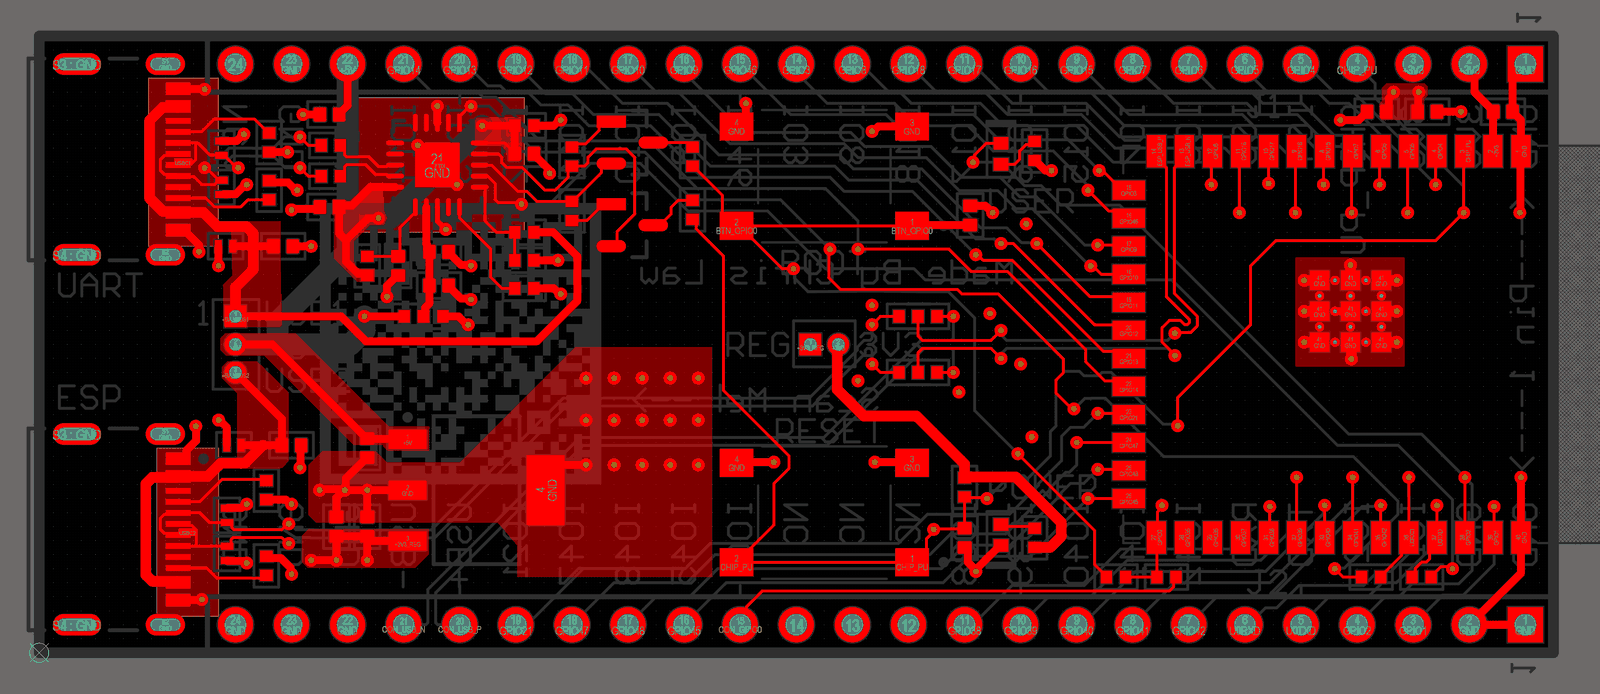
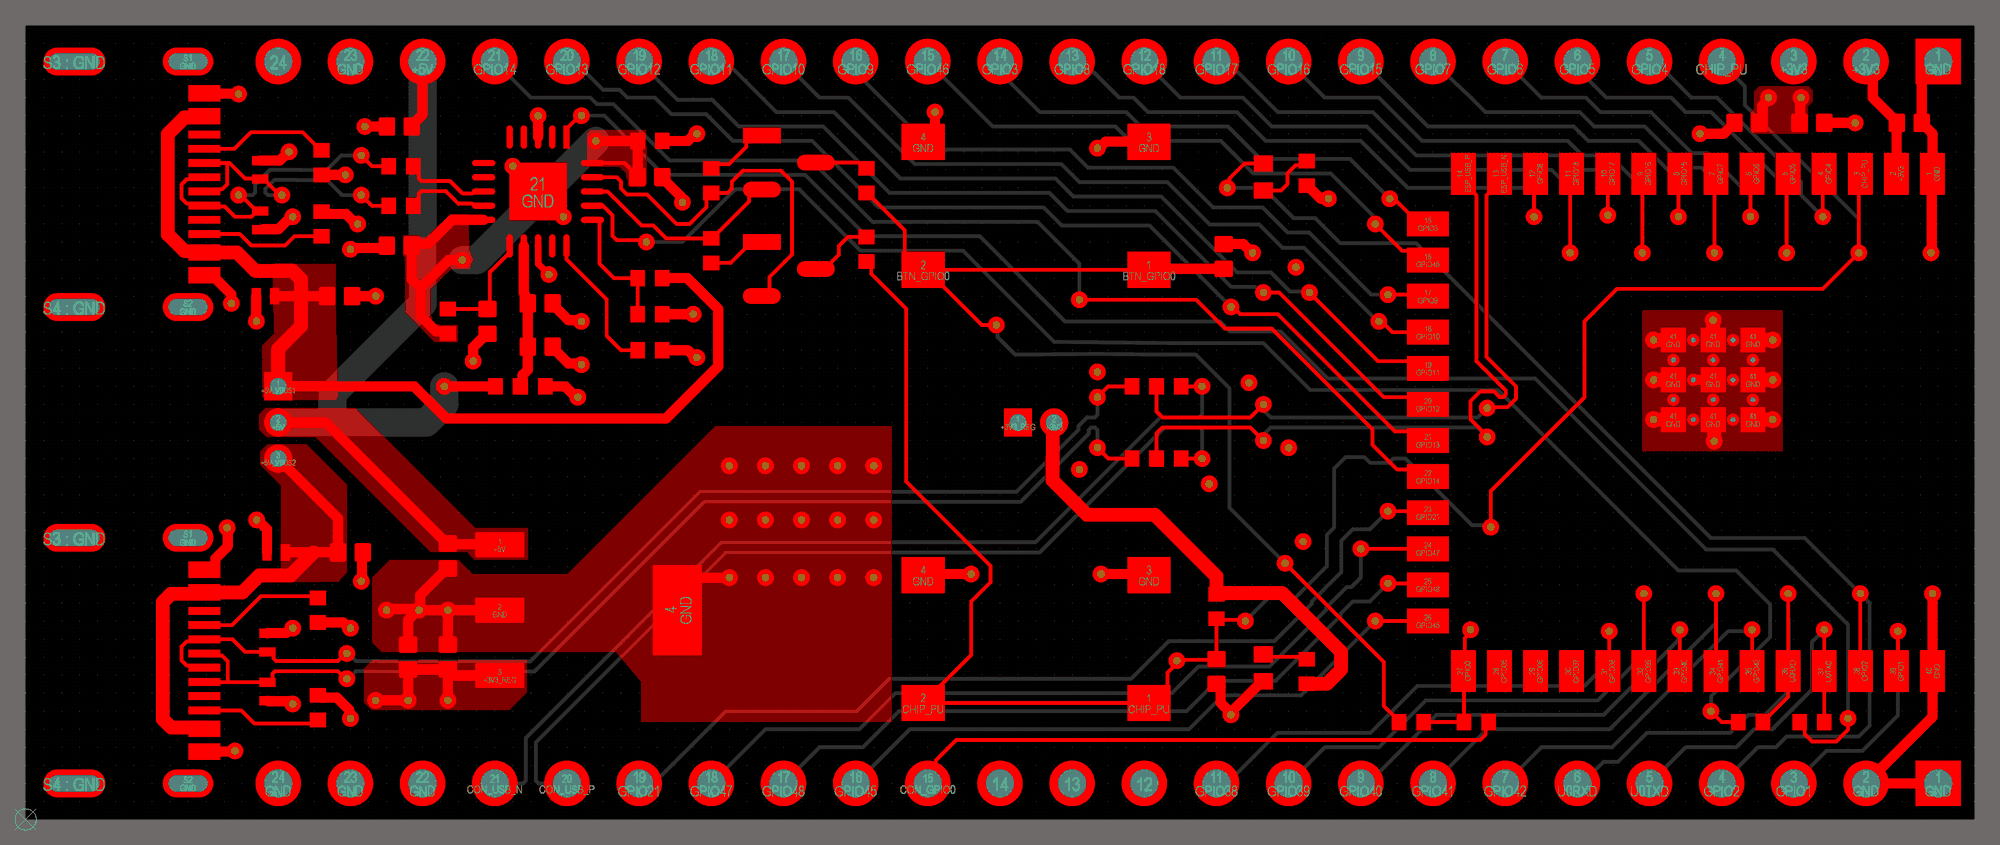
website update

diff --git a/app.js b/app.js
@@ -1,6 +1,6 @@
 const site = {
     statement: 'I\'m Chris, a computer engineering student at Waterloo. I enjoy working on both software and hardware.',
-    standfirst: 'Computer engineering at the University of Waterloo. The first revision of a custom ESP32-S3 board is built and powering up.',
+    standfirst: 'Computer engineering at the University of Waterloo. The first revision of a custom ESP32-S3 board is built and running over native USB.',
 
     projects: [
         {
@@ -8,13 +8,14 @@ const site = {
             fact: '4-layer PCB, Altium',
             note: 'A custom four-layer board taken from schematic to manufactured PCB.',
             deck: 'A custom ESP32-S3 development board designed from scratch in Altium Designer and taken through fabrication and assembly at JLCPCB.',
-            /* photo-top.jpg is the Top 3D render's frame extended to 2.25:1,
-               with the photographed PCB warped onto the render's PCB
-               rectangle. The folder's image box is 2.06-2.24:1, so both are
-               width-limited there and the board lands on the same pixels in
-               either tab. photo-bottom.jpg sits on the mirror image of that
-               rectangle, so Photo -> Underside reads as turning the board
-               over. The photo tabs share a tint sampled from the wood. */
+            /* board-top.jpg shares photo-top.jpg's 1800x800 frame, placed by
+               matching the render's pads and silkscreen to the photo's (median
+               error under a pixel), so the board lands on the same pixels in
+               either tab at any frame size. photo-bottom.jpg sits on the mirror
+               image of that rectangle, so Photo -> Underside reads as turning
+               the board over. The two copper layers share a frame too, so
+               their through-hole pads coincide. The photo tabs share a tint
+               sampled from the wood. */
             images: [
                 {
                     src: 'images/esp32/photo-top.jpg',
@@ -50,22 +51,21 @@ const site = {
                     src: 'images/esp32/layout-bottom.png',
                     label: 'Bottom Layer',
                     tint: '#315CA8',
-                    caption: 'Bottom copper, carrying most of the GPIO fan-out from the module to the two header rows. The wide pours at left distribute 5 V and the regulated 3.3 V.'
+                    caption: 'Bottom copper, carrying most of the GPIO fan-out from the module to the two header rows. The two wide traces at upper left are the selected 5 V rail and +3V3_FTDI, the FT231XQ\'s own 3.3 V output, which feeds its VCCIO.'
                 },
                 {
                     src: 'images/esp32/schematic.png',
                     label: 'Schematic',
                     tint: '#956314',
-                    caption: 'The full sheet: both USB-C front ends, the 5 V and 3.3 V selection jumpers, the FT231XQ UART path, the two-transistor auto-programming circuit driven by DTR and RTS, and the module itself.'
+                    caption: 'The full sheet, corrected after bring-up: both USB-C front ends, the 5 V and 3.3 V selection jumpers, the FT231XQ UART path, the two-transistor auto-programming circuit driven by DTR and RTS, and the module itself. R18 and R19 now cross the bridge\'s TXD and RXD over to the module\'s U0RXD and U0TXD; the assembled boards predate the fix.'
                 }
             ],
             body: [
-                'I wanted to understand how a development board actually works, so I designed one. It is built around the ESP32-S3-WROOM-1-N8R8 module, which carries 8 MB of flash, 8 MB of octal PSRAM, and an integrated PCB antenna. The longer-term point of the board is to become the controller for a 3D-printed robot with motors, sensors, and eventually a vision peripheral, so it needed to be a platform rather than a one-off.',
-                'The starting point was <a href=\'https://fedevel.com/blog/how-to-make-custom-esp32-board-in-altium-designer-full-tutorial\' target=\'_blank\' rel=\'noopener noreferrer\'>Robert Feranec\'s custom ESP32 board tutorial</a> at FEDEVEL, which is what taught me the process end to end. I built around a different module, and that changed most of it: moving from the MINI to the WROOM meant a new schematic symbol, a new footprint with an exposed pad, a different pin map, and a different antenna strategy. It also cost me three GPIOs: on the N8R8 the octal PSRAM occupies GPIO35, 36 and 37 internally, so the schematic deliberately never exposes them. Every choice was cross-checked against Espressif\'s reference documentation, the DevKitC schematic, and the component datasheets rather than the tutorial.',
-                'The board takes power from either of two USB-C connectors. A three-pin header with a jumper shunt selects which VBUS reaches the 5 V rail, so the two supplies are never tied together. A TL1963A-33 regulator drops that to 3.3 V, and a second jumper chooses between the regulator output and 3.3 V supplied from outside. One connector is a conventional USB-to-UART path through an FT231XQ bridge; the other is the ESP32-S3\'s native USB on GPIO19 and GPIO20, routed as a differential pair under Altium pair rules targeting 90 Ω. Both ports get independent 5.1 kΩ CC resistors, ESD protection at the connector, and 27 Ω series termination.',
-                'The part I did not expect to learn was manufacturing. The first JLCPCB submission failed audit because the NC drill files were not inside the Gerber archive. They had been generated correctly, just not uploaded. Then the thermal vias under the module\'s exposed pad came back flagged: at 0.20 mm drill with 0.40 mm copper they crossed a threshold that triggers a mandatory four-wire Kelvin test surcharge. Widening them to 0.45 mm kept the thermal path and removed the fee. A board can be electrically correct and still cost more to build than it needs to.',
-                'Two pairs of alternative 0 Ω footprints physically overlap on the layout, and only one of each pair should ever be fitted. Rather than trusting a note at checkout, I built an Altium prototype variant so the unfitted parts are excluded from the pick-and-place output entirely, and wrote targeted clearance rules that permit the intentional overlap without weakening component clearance across the rest of the board. Early DRC runs threw hundreds of violations: mask slivers, silkscreen clearance, exposed-pad clearance, unrouted nets. Most of them cleared once I set the board up against JLCPCB\'s own design constraints rather than generic defaults, and I closed the rest with specific rules instead of switching checks off.',
-                'Five bare boards were fabricated and two were assembled, which is enough to tell a design fault apart from a single bad component during bring-up. The through-hole headers and jumper shunts are cheap enough to hand-solder. The first assembled board powers up cleanly: the 5 V and 3.3 V rails check out and the power LED comes on. Next are RESET and BOOT, then UART flashing through the FT231X, native USB, and finally Wi-Fi.'
+                'I designed a four-layer ESP32-S3 development board in Altium and brought it up through native USB. It uses an ESP32-S3-WROOM-1-N8R8 module with 8 MB of flash and 8 MB of octal PSRAM, two USB-C interfaces, GPIO headers, boot/reset buttons, and a TL1963A regulator that supplies 3.3 V from a 5 V input. The starting point was <a href=\'https://fedevel.com/blog/how-to-make-custom-esp32-board-in-altium-designer-full-tutorial\' target=\'_blank\' rel=\'noopener noreferrer\'>Robert Feranec’s custom ESP32 board tutorial</a> at FEDEVEL; I built mine around the WROOM module instead of the tutorial’s MINI.',
+                'I created the schematic, routed the PCB, and prepared the fabrication and assembly files. The four-layer layout uses internal power and ground planes, thermal vias, and trace-width calculations targeting 50 Ω single-ended and 90 Ω USB differential impedance. JLCPCB assembled the surface-mount components, including the 0402 parts; I hand-soldered the through-hole power and GPIO headers.',
+                'Testing through native USB confirmed successful firmware uploads, flash hash verification, and normal sketch execution. I measured the 3.3 V output, checked the power LED, and verified USB serial output, Wi-Fi operation, and the active-low LED on GPIO2 blinking one second on and one second off. A 1 MiB PSRAM block passed six write/read patterns.',
+                'The FT231X bridge appeared on COM3, but UART uploads received no response. I found TX connected to TX and RX connected to RX through the two 0 Ω links, R18 and R19. Native USB on COM4 bypasses that path, so the board remains usable through native USB. In the schematic, I swapped which module pin each link reaches, then corrected the PCB routes to match. The proposed repair for the existing board is to remove the two 0 Ω UART links and use two insulated jumper wires to cross-connect the correctly mapped TX/RX pads. I have not performed or tested that repair; it is optional for my current use through native USB.',
+                'The first successful upload cleared repeated invalid-header messages, likely caused by blank flash. Enabling USB CDC On Boot and using Serial at 115200 baud made firmware messages visible. Bring-up taught me to check physical package pin numbers as well as net names, and to test each interface separately. The schematic and layout images shown here are from the corrected design.'
             ],
             notes: [
                 'GPIO35 to 37 are never exposed, because the octal PSRAM uses them internally',
@@ -82,11 +82,12 @@ const site = {
                 ['Board size', '68.58 × 27.94 mm'],
                 ['Regulator', 'TL1963A-33'],
                 ['USB', 'FT231XQ bridge and native S3'],
-                ['Differential pair', '90 Ω routing target'],
+                ['Impedance targets', '50 Ω single-ended, 90 Ω USB differential'],
                 ['Designed in', 'Altium Designer'],
                 ['Fabrication', 'JLCPCB'],
                 ['Verification', '0 DRC violations, 0 unrouted nets (design check, not a functional test)'],
-                ['Status', 'Assembled and powers up. Flashing, native USB and Wi-Fi not yet tested']
+                ['Status', 'Brought up over native USB'],
+                ['Known issue', 'FT231X UART path wired TX to TX; corrected in the schematic and layout, not reworked on the built boards']
             ],
             links: []
         },
@@ -307,7 +308,7 @@ const FLAGSHIP = 0;
 
 const stats = [
     ['Studying', 'Computer engineering at Waterloo, 3.84 GPA'],
-    ['Right now', 'Bringing up my ESP32-S3 board: power works, flashing is next'],
+    ['Right now', 'My ESP32-S3 board is up and running firmware over native USB'],
     ['Looking for', 'Jan to Apr 2027 co-op in software or hardware, and open to other opportunities']
 ];
 
@@ -505,7 +506,7 @@ function flagshipMarkup() {
             <div class="board-grid" id="board">
                 <div class="board-copy">
                     <h3>${project.title}</h3>
-                    <p>I designed a four-layer ESP32-S3 development board in Altium and had it fabricated and assembled by JLCPCB. The boards are here now, and the first one powers up.</p>
+                    <p>I designed a four-layer ESP32-S3 development board in Altium, had it fabricated and assembled by JLCPCB, and brought it up through native USB.</p>
 
                     <dl class="board-panels">
                         ${boardPanels
